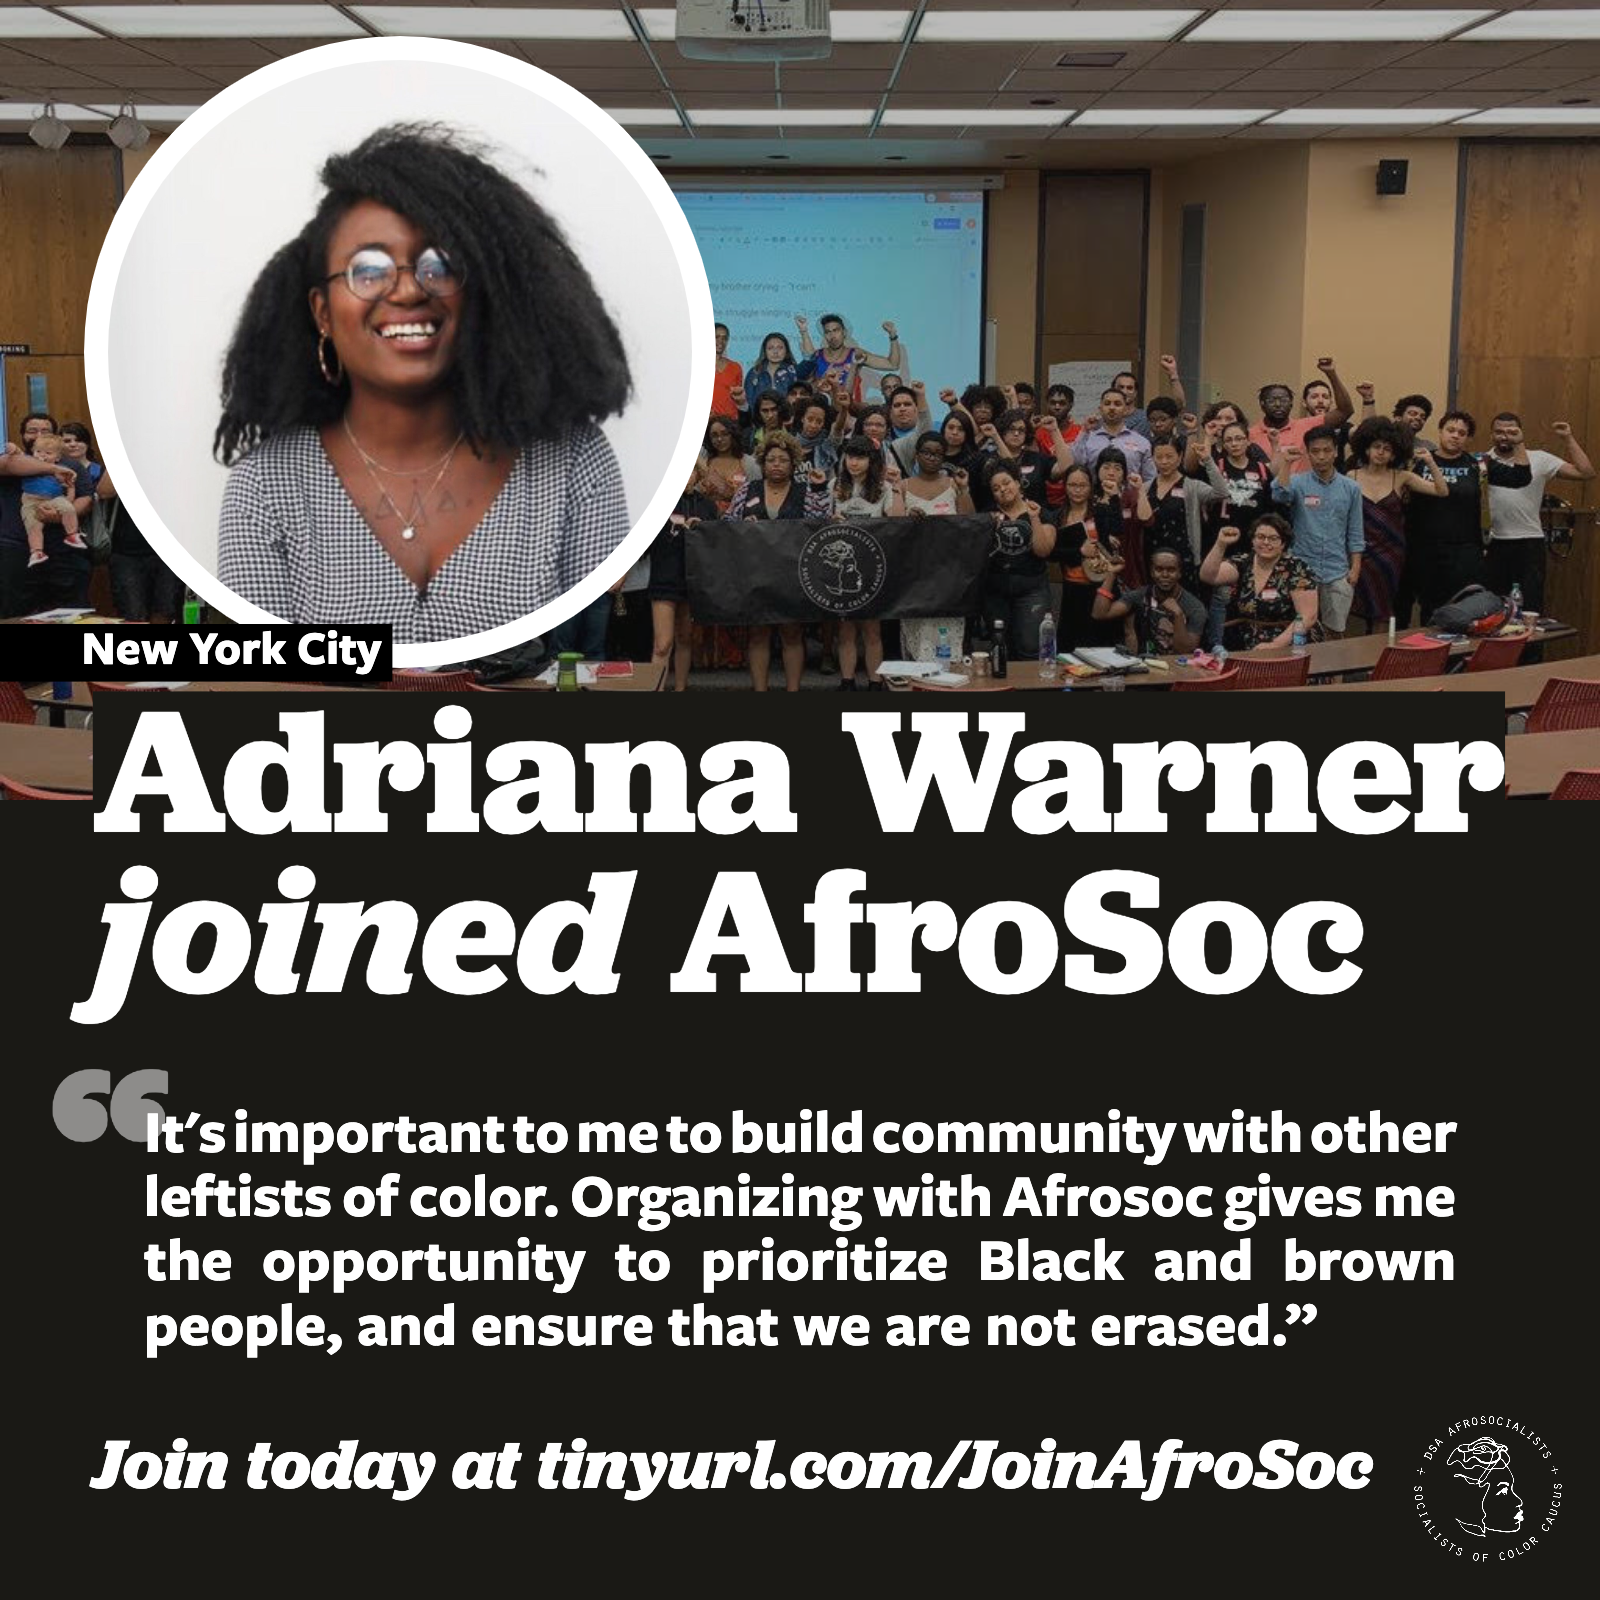
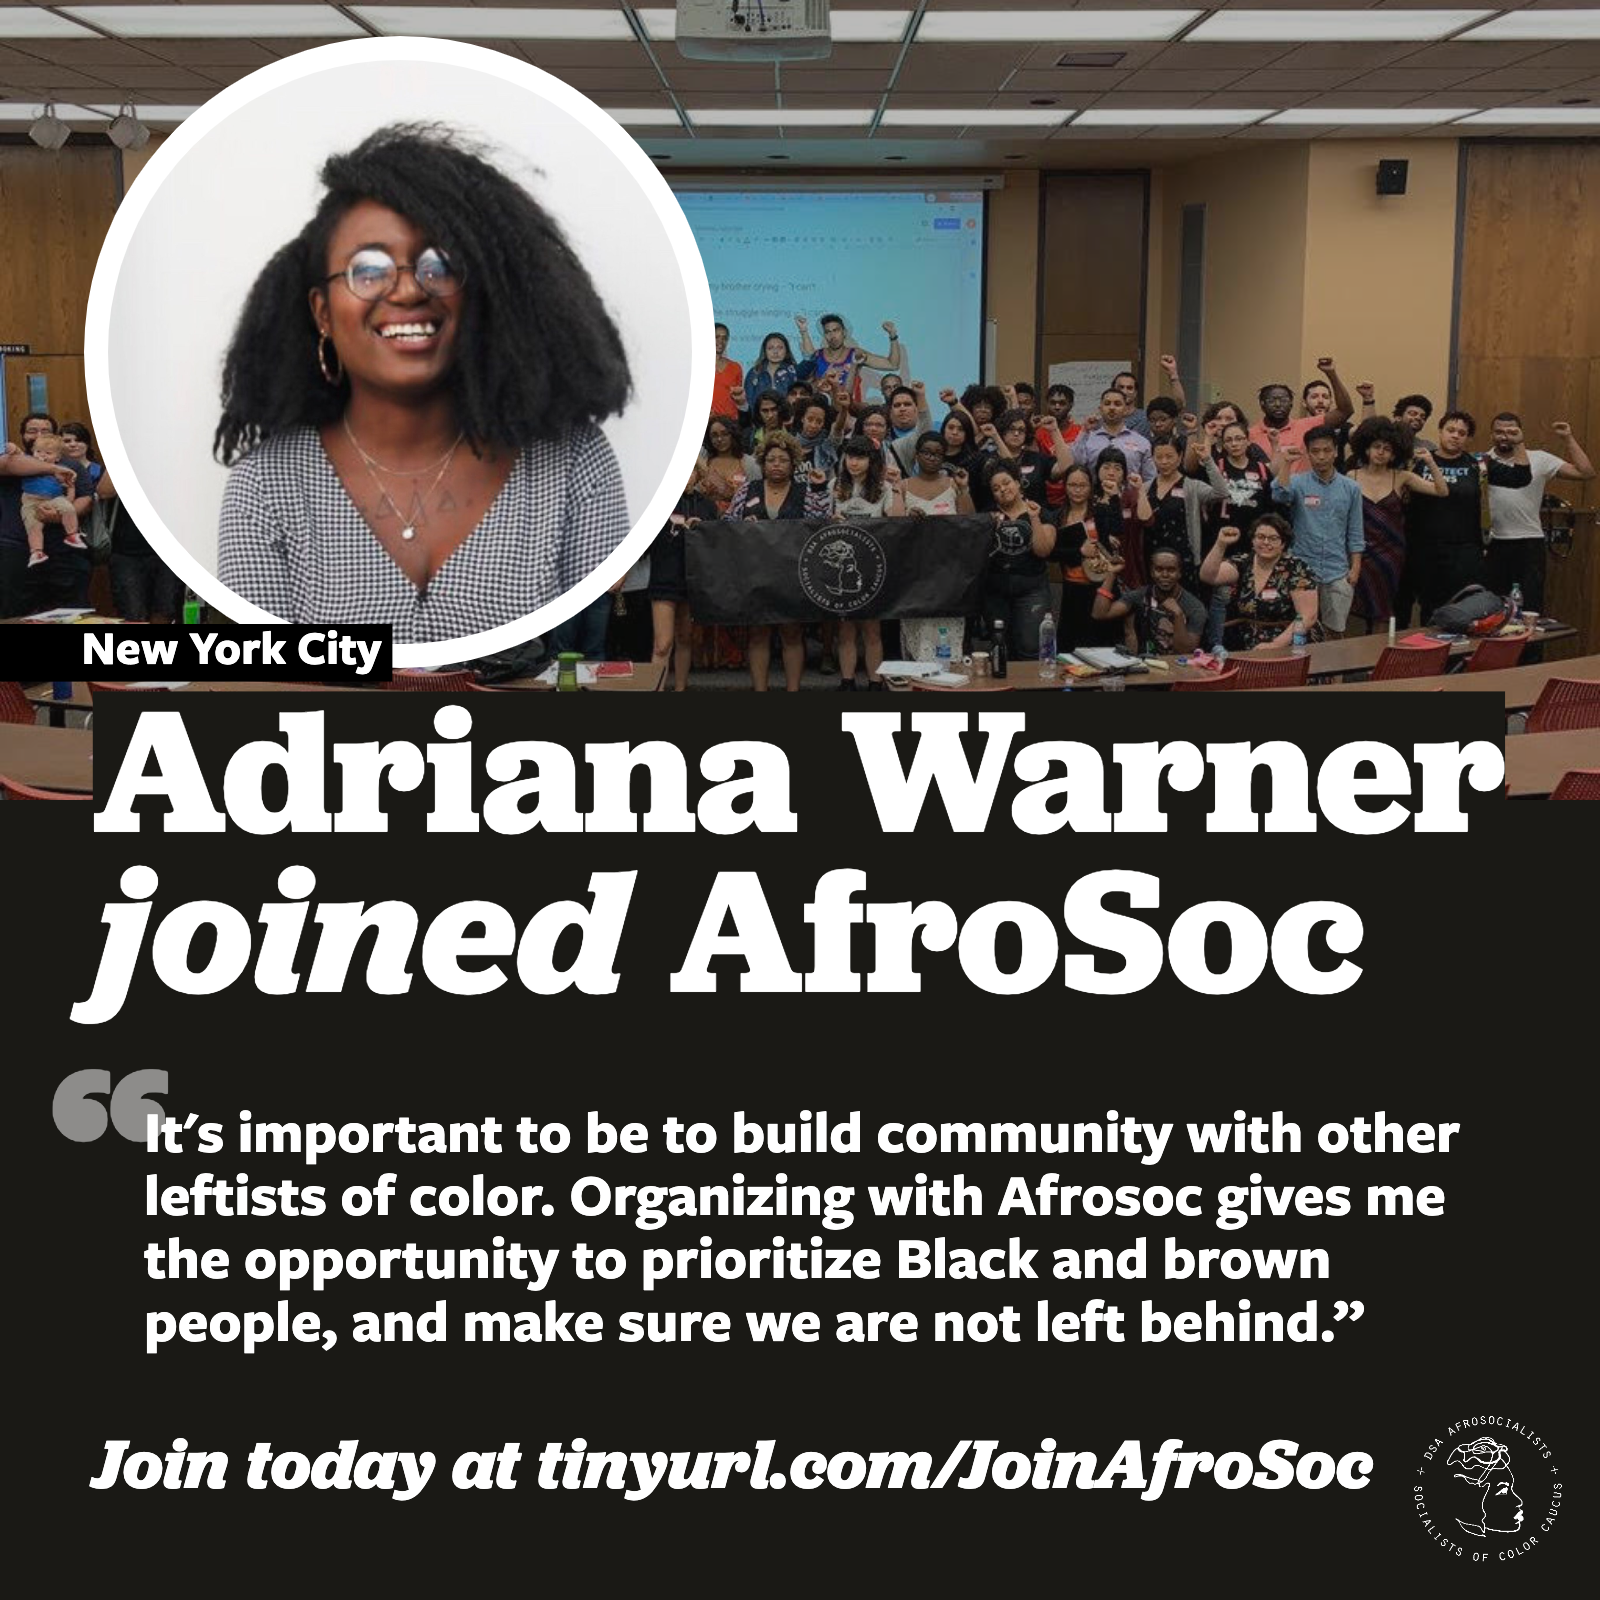
Update text alignment and example

Changed region(s): [[0.0938, 0.6875, 0.9062, 0.8438]]

diff --git a/js/main.js b/js/main.js
@@ -356,8 +356,8 @@ function imagesAreNowLoaded(){
 
 	// ----------------------------------------------------- Paragraph Text
 	var setting = {
-			maxSpaceSize : 6,
-			minSpaceSize : 0.5,
+			maxSpaceSize : 1,
+			minSpaceSize : 1,
 			lineSpacing : 1.07,
 			compact : false
 	}
